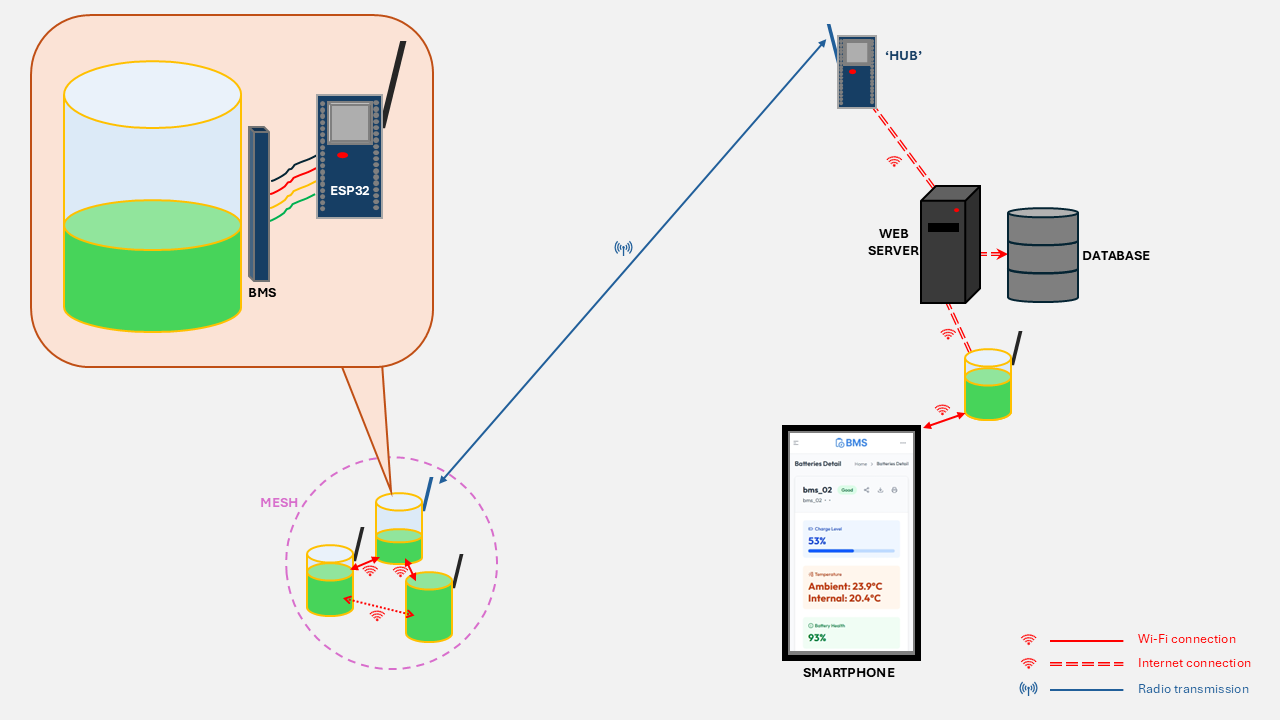
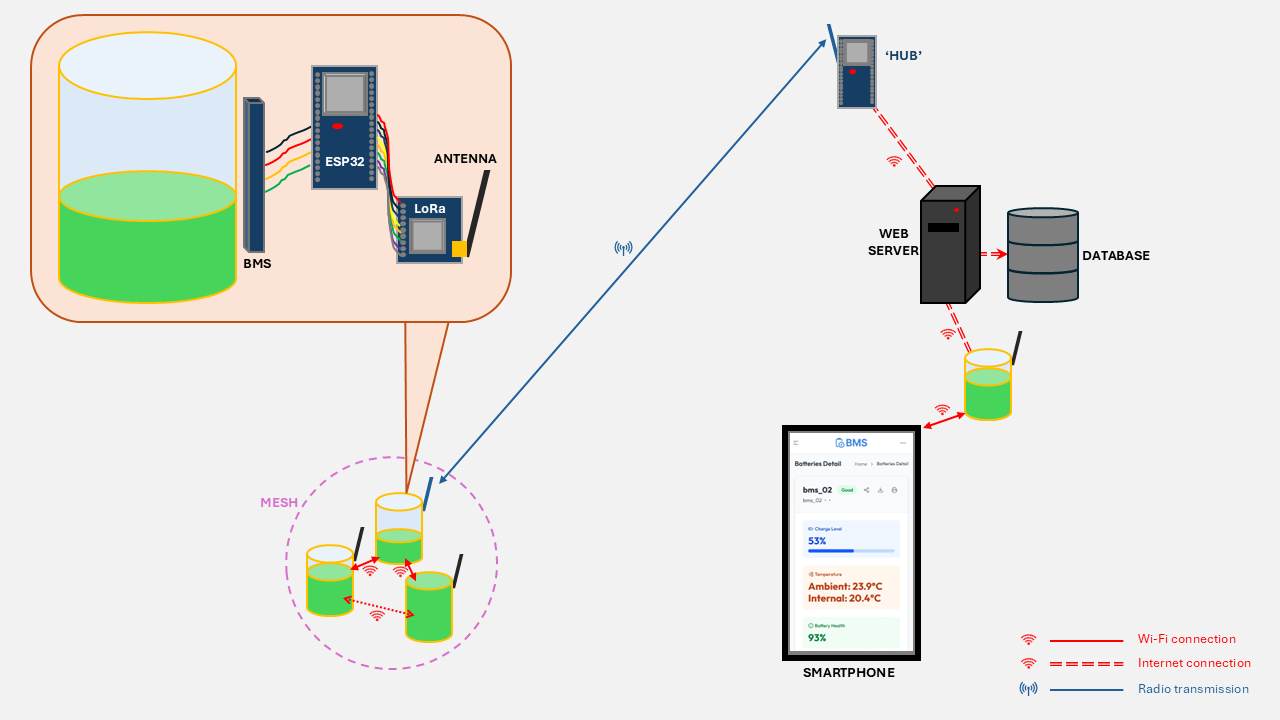
updates

Changed region(s): [[0.0, 0.0, 0.4062, 0.6722]]

diff --git a/README.md b/README.md
@@ -2,15 +2,24 @@
 
 ## ESP32
 Each battery module is interfaced, through a BMS, to an ESP32 microcontroller.
-The microcontroller is programmed in C with the ESP-IDF framework which is provided and maintained by Espressif.
+The microcontroller is programmed in `C` with the ESP-IDF framework which is provided and maintained by [Espressif](https://docs.espressif.com/projects/esp-idf/en/stable/esp32/index.html).
 The primary aim of each ESP32 is to enable the monitoring and control of each battery module.
 In practice, the microcontroller interacts with the BMS rather than directly with the module.
 Data is exchanged between the ESP32 and the BMS, but also between the ESP32 and our online web server and / or other ESP32s via Wi-Fi communication.
 In scenarios where the module is not within range of a network connection, Wi-Fi communication is replaced by radio transmission.
 
-The diagram below details all possible forms of information exchange.
+The diagram below illustrates the components of each individual battery module, as well as all possible forms of information exchange.
 
 ![information_exchange.png](img/information_exchange.png)
+
+### BMS and LoRa
+Shown in the zoomed bubble is a breakdown of one battery module unit. The battery itself is wired to a battery management system (BMS). At this point we are working with a four-series-cell lithium-ion battery and a [BQ40Z50-R1](https://www.ti.com/product/BQ40Z50) BMS. The BMS is then managed by the ESP32 through I<sup>2</sup>C communication. The ESP32 can simultaneously communicate with the radio LoRa transceiver through a separate SPI connection. The ESP32 comes pre-loaded with Wi-Fi and Bluetooth capabilities.
+
+#### BMS
+
+
+#### LoRA
+
 
 ## Webserver backend
 <placeholder>
